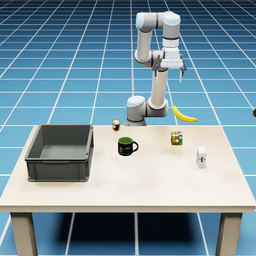
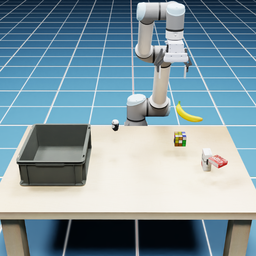
Edit some objects

diff --git a/scripts/main.py b/scripts/main.py
@@ -51,12 +51,16 @@ camera_paths = {
 # test
 obj_prim_path = [
     "/rubiks_cube",
+    # "/Lemon_01",
+    # "/_02_master_chef_can",
+    "/_09_gelatin_box",
     "/Android_Figure_Panda",
-    "/SM_Mug_A2",
+    "/nvidia_cube",
+    #"/SM_Mug_A2",
     "/_05_tomato_soup_can",
     "/_11_banana",
     "/Office_Depot_Canon",
-    "/_10_potted_meat_can",
+    #"/_10_potted_meat_can",
     "/_08_pudding_box"
 ]
 

diff --git a/scripts/modules/initial_set.py b/scripts/modules/initial_set.py
@@ -45,7 +45,7 @@ def reset_obj_position(prim_paths,simulation_context):
                 # random.uniform(0.8,0.85)
                 random.uniform(0.6,0.9),
                 random.uniform(-0.11,0.4),
-                random.uniform(0.85,0.9)
+                random.uniform(0.90,1.00)
                 
             ],
             orientation = tuple(R.from_euler('xyz', euler_angles).as_quat())
